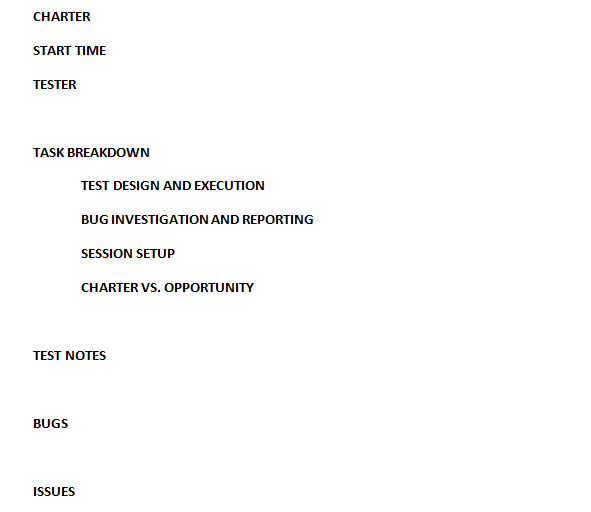
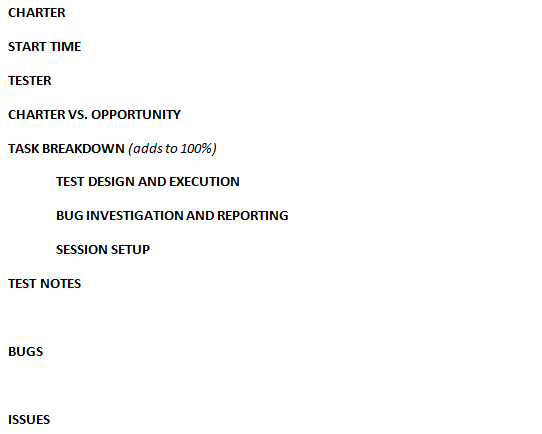
Tweaks to first half of material; pushing forward JMeter installation, altering format of SBTM template, fixing spelling mistake in mind map, altering q4 in quiz, reworking session slide to include charter.

diff --git a/js/quizes.js b/js/quizes.js
@@ -44,7 +44,7 @@ angular.module('ng').
         { answer: "b", question: "We should use test sprints for non-functional testing", hint: "Developers and testers should work together on the same stories"},
         { answer: "a", question: "We can do non-functional testing without requirements", hint: "Testing can discover requirements when determining what will be acceptable to the product owner"},
         { answer: "b", question: "Testers should prioritise non-functional testing", hint: "The product owner has responsibility for determining priority"},
-        { answer: "a", question: "Mind maps can show scope and progress of testing in a graphical way", hint: "Mind maps with icons can be stuck to Visual Management Boards"}
+        { answer: "a", question: "Mind maps can show non-functional requirements in a graphical way", hint: "Mind maps can be stuck to Visual Management Boards"}
 
     ];
 });
